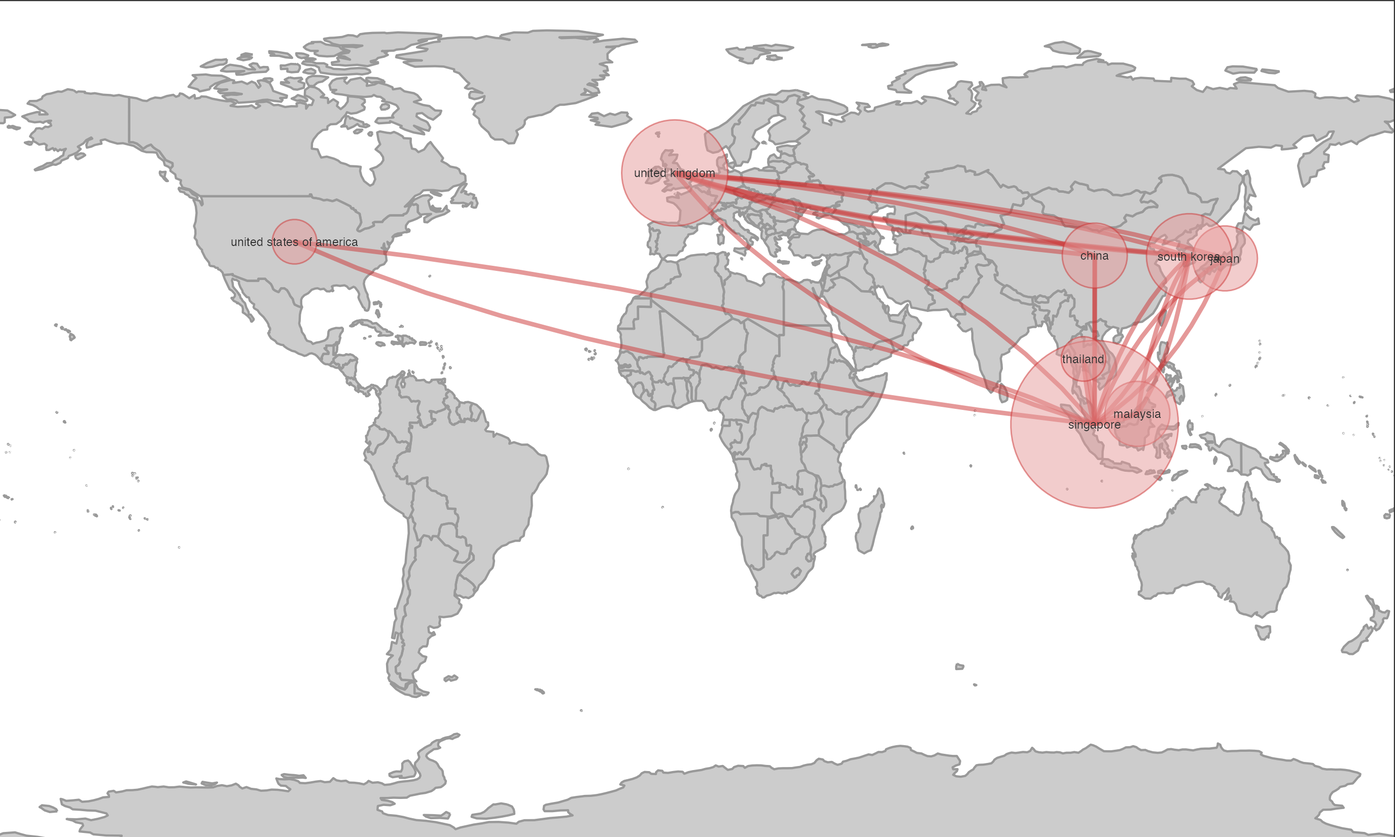
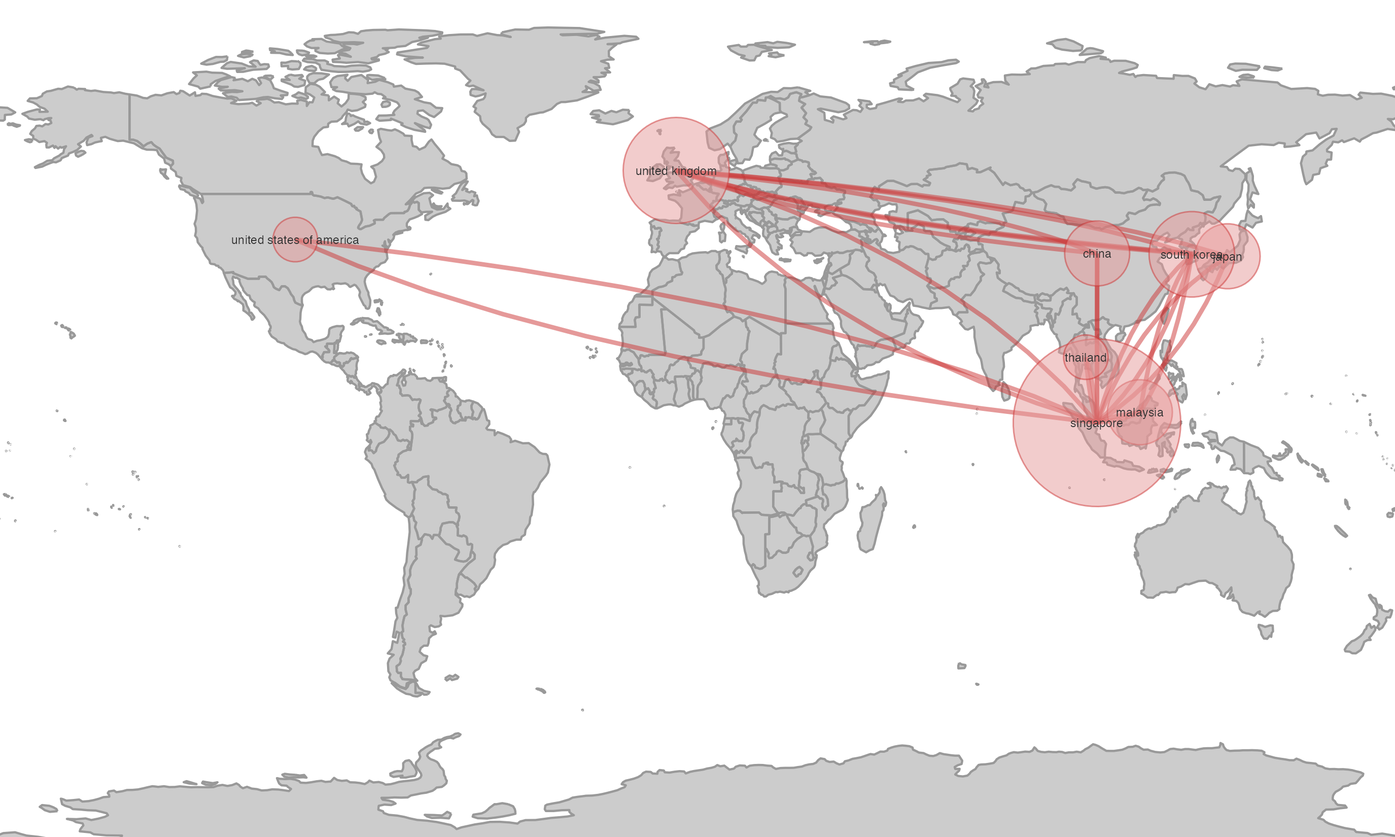
Built site for gh-pages

diff --git a/publications/index.html b/publications/index.html
@@ -7,7 +7,7 @@
 <meta name="viewport" content="width=device-width, initial-scale=1.0, user-scalable=yes">
 
 
-<title></title>
+<title>bhanlam -</title>
 <style>
 code{white-space: pre-wrap;}
 span.smallcaps{font-variant: small-caps;}
@@ -43,6 +43,8 @@ ul.task-list li input[type="checkbox"] {
 <link href="../site_libs/bootstrap/bootstrap-dark.min.css" rel="prefetch" class="quarto-color-scheme quarto-color-alternate" id="quarto-bootstrap" data-mode="dark">
 <link href="../site_libs/quarto-contrib/fontawesome6-0.1.0/all.css" rel="stylesheet">
 <link href="../site_libs/quarto-contrib/fontawesome6-0.1.0/latex-fontsize.css" rel="stylesheet">
+<link href="../site_libs/quarto-contrib/academicons-1.9.2/all.css" rel="stylesheet">
+<link href="../site_libs/quarto-contrib/academicons-1.9.2/size.css" rel="stylesheet">
 <script id="quarto-search-options" type="application/json">{
   "location": "navbar",
   "copy-button": false,
@@ -66,7 +68,7 @@ ul.task-list li input[type="checkbox"] {
 
 
 <link rel="stylesheet" href="../styles.css">
-<meta name="twitter:title" content="">
+<meta name="twitter:title" content="bhanlam -">
 <meta name="twitter:creator" content="@bhanlam">
 <meta name="twitter:card" content="summary">
 </head>
@@ -130,10 +132,93 @@ ul.task-list li input[type="checkbox"] {
 
 
 
-<section id="publications" class="level2">
-<h2 class="anchored" data-anchor-id="publications">Publications</h2>
+<section id="full-publication-list" class="level2">
+<h2 class="anchored" data-anchor-id="full-publication-list">Full Publication List</h2>
+<section id="journal-articles" class="level3">
+<h3 class="anchored" data-anchor-id="journal-articles">Journal Articles</h3>
+<p><br>D Shi, B Lam, X Shen, WS Gan, “Multichannel Two-Gradient Direction Filtered Reference Least Mean Square Algorithm for Output-Constrained Multichannel Active Noise Control”, <em>Signal Process</em>, 2023. <br> Find it here: <a href="https://doi.org/10.1016/j.sigpro.2023.108938" style="font-size:1.5em"><i class="ai  ai-doi-square"></i></a><br>
+<br><br> D Shi, WS Gan, B Lam, X Shen, “A Frequency-Domain Output-Constrained Active Noise Control Algorithm Based on An Intuitive Circulant Convolutional Penalty Factor”, <em>IEEE T Acoust Speech</em>, 2023. <br> Find it here: <a href="https://doi.org/10.1109/TASLP.2023.3260702" style="font-size:1.5em"><i class="ai  ai-doi-square"></i></a><br>
+<br><br> K Ooi, ZT Ong, KN Watcharasupat, B Lam, JY Hong, WS Gan, “Araus: A Large-Scale Dataset And Baseline Models of Affective Responses to Augmented Urban Soundscapes”, <em>IEEE T Affect Comput</em>, 2023. <br> Find it here: <a href="https://doi.org/10.1109/TAFFC.2023.3247914" style="font-size:1.5em"><i class="ai  ai-doi-square"></i></a> <a href="https://doi.org/10.48550/arXiv.2207.01078" style="font-size:1.5em"><i class="ai  ai-arxiv-square"></i></a><br>
+<br><br> D Shi, WS Gan, B Lam, Z Luo, X Shen, “Transferable Latent of Cnn-Based Selective Fixed-Filter Active Noise Control”, <em>IEEE T Acoust Speech</em>, 2023. <br> Find it here: <a href="https://doi.org/10.1109/TASLP.2023.3261757" style="font-size:1.5em"><i class="ai  ai-doi-square"></i></a> <a href="https://www.researchgate.net/publication/371225782_Transferable_Latent_of_CNN-based_Selective_Fixed-filter_Active_Noise_Control?_iepl%5BgeneralViewId%5D=ATO4W0Ce18MbhMMhSMoiFzjWzgjxpbTRtwAa&amp;_iepl%5Bcontexts%5D%5B0%5D=searchReact&amp;_iepl%5BviewId%5D=dBqIQIPElARZ3mltHs9c3hHfTi3TSlqfa1Dm&amp;_iepl%5BsearchType%5D=publication&amp;_iepl%5Bdata%5D%5BcountLessEqual20%5D=1&amp;_iepl%5Bdata%5D%5BinteractedWithPosition1%5D=1&amp;_iepl%5Bdata%5D%5BwithoutEnrichment%5D=1&amp;_iepl%5Bposition%5D=1&amp;_iepl%5BrgKey%5D=PB%3A371225782&amp;_iepl%5BtargetEntityId%5D=PB%3A371225782&amp;_iepl%5BinteractionType%5D=publicationTitle" style="font-size:1.5em"><i class="ai  ai-researchgate-square"></i></a><br>
+<br><br> D Shi, B Lam, J Ji, X Shen, CK Lai, WS Gan, “Computation-Efficient Solution for Fully-Connected Active Noise Control Window: Analysis And Implementation of Multichannel Adjoint Least Mean Square Algorithm”, <em>Mech Syst Signal Pr</em>, 2023. <br> Find it here: <a href="https://doi.org/10.1016/j.ymssp.2023.110444" style="font-size:1.5em"><i class="ai  ai-doi-square"></i></a><br>
+<br><br> KN Watcharasupat, S Jaratjarungkiat, B Lam, S Jitwiriyanont, K Ooi, …, “Quantitative Evaluation Approach for Translation of Perceptual Soundscape Attributes: Initial Application to The Thai Language”, <em>Appl Acoust</em>, 2022. <br> Find it here: <a href="https://doi.org/10.1016/j.apacoust.2022.108962" style="font-size:1.5em"><i class="ai  ai-doi-square"></i></a><br>
+<br><br> B Lam, J Chieng, KN Watcharasupat, K Ooi, ZT Ong, JY Hong, WS Gan, “Crossing the Linguistic Causeway: A Binational Approach for Translating Soundscape Attributes to Bahasa Melayu”, <em>Appl Acoust</em>, 2022. <br> Find it here: <a href="https://doi.org/10.1016/j.apacoust.2022.108976" style="font-size:1.5em"><i class="ai  ai-doi-square"></i></a><br>
+<br><br> B Lam, EMP Fan, K Ooi, ZT Ong, JY Hong, WS Gan, SY Ang, “Assessing the Perceived Indoor Acoustic Environment Quality Across Building Occupants in A Tertiary-Care Public Hospital in Singapore”, <em>Build Environ</em>, 2022. <br> Find it here: <a href="https://doi.org/10.1016/j.buildenv.2022.109403" style="font-size:1.5em"><i class="ai  ai-doi-square"></i></a><br>
+<br><br> JY Hong, B Lam, ZT Ong, K Ooi, WS Gan, S Lee, “A Multidimensional Assessment of Construction Machinery Noises Based on Perceptual Attributes And Psychoacoustic Parameters”, <em>Automat Constr</em>, 2022. <br> Find it here: <a href="https://doi.org/10.1016/j.autcon.2022.104295" style="font-size:1.5em"><i class="ai  ai-doi-square"></i></a><br>
+<br><br> KN Watcharasupat, K Ooi, B Lam, T Wong, ZT Ong, WS Gan, “Autonomous In-Situ Soundscape Augmentation Via Joint Selection of Masker And Gain”, <em>IEEE Signal Proc Let</em>, 2022. <br> Find it here: <a href="https://doi.org/10.1109/LSP.2022.3194419" style="font-size:1.5em"><i class="ai  ai-doi-square"></i></a><br>
+<br><br> D Shi, B Lam, K Ooi, X Shen, WS Gan, “Selective Fixed-Filter Active Noise Control Based on Convolutional Neural Network”, <em>Signal Process</em>, 2022. <br> Find it here: <a href="https://doi.org/10.1016/j.sigpro.2021.108317" style="font-size:1.5em"><i class="ai  ai-doi-square"></i></a><br>
+<br><br> K Ooi, B Lam, JY Hong, KN Watcharasupat, ZT Ong, WS Gan, “Singapore Soundscape Site Selection Survey (S5): Identification of Characteristic Soundscapes of Singapore Via Weighted K-Means Clustering”, <em>Sustainability-Basel</em>, 2022. <br> Find it here: <a href="https://doi.org/10.3390/su14127485" style="font-size:1.5em"><i class="ai  ai-doi-square"></i></a><br>
+<br><br> D Shi, WS Gan, B Lam, X Shen, “Comb-Partitioned Frequency-Domain Constraint Adaptive Algorithm for Active Noise Control”, <em>Signal Process</em>, 2021. <br> Find it here: <a href="https://doi.org/10.1016/j.sigpro.2021.108222" style="font-size:1.5em"><i class="ai  ai-doi-square"></i></a><br>
+<br><br> B Lam, WS Gan, DY Shi, M Nishimura, S Elliott, “Ten Questions Concerning Active Noise Control in The Built Environment”, <em>Build Environ</em>, 2021. <br> Find it here: <a href="https://doi.org/10.1016/j.buildenv.2021.107928" style="font-size:1.5em"><i class="ai  ai-doi-square"></i></a><br>
+<br><br> D Shi, B Lam, WS Gan, S Wen, “Block Coordinate Descent Based Algorithm for Computational Complexity Reduction in Multichannel Active Noise Control System”, <em>Mech Syst Signal Pr</em>, 2021. <br> Find it here: <a href="https://doi.org/10.1016/j.ymssp.2020.107346" style="font-size:1.5em"><i class="ai  ai-doi-square"></i></a><br>
+<br><br> K Ooi, Y Xie, B Lam, WS Gan, “Automation of Binaural Headphone Audio Calibration on An Artificial Head”, <em>Methodsx</em>, 2021. <br> Find it here: <a href="https://doi.org/10.1016/j.mex.2021.101288" style="font-size:1.5em"><i class="ai  ai-doi-square"></i></a><br>
+<br><br> D Shi, WS Gan, B Lam, S Wen, X Shen, “Optimal Output-Constrained Active Noise Control Based on Inverse Adaptive Modeling Leak Factor Estimate”, <em>IEEE T Acoust Speech</em>, 2021. <br> Find it here: <a href="https://doi.org/10.1109/TASLP.2021.3065730" style="font-size:1.5em"><i class="ai  ai-doi-square"></i></a><br>
+<br><br> D Shi, WS Gan, B Lam, K Ooi, “Fast Adaptive Active Noise Control Based on Modified Model-Agnostic Meta-Learning Algorithm”, <em>IEEE Signal Proc Let</em>, 2021. <br> Find it here: <a href="https://doi.org/10.1109/LSP.2021.3064756" style="font-size:1.5em"><i class="ai  ai-doi-square"></i></a><br>
+<br><br> JY Hong, B Lam, ZT Ong, K Ooi, WS Gan, J Kang, S Yeong, I Lee, ST Tan, “A Mixed-Reality Approach to Soundscape Assessment of Outdoor Urban Environments Augmented with Natural Sounds”, <em>Build Environ</em>, 2021. <br> Find it here: <a href="https://doi.org/10.1016/j.buildenv.2021.107688" style="font-size:1.5em"><i class="ai  ai-doi-square"></i></a> <a href="https://hdl.handle.net/10356/146637" style="font-size:1.5em"><i class="fa-solid fa-globe" aria-label="globe"></i></a><br>
+<br><br> D Shi, WS Gan, B Lam, X Shen, “Optimal Penalty Factor for The Mov-Fxlms Algorithm in Active Noise Control System”, <em>IEEE Signal Proc Let</em>, 2021. <br> Find it here: <a href="https://doi.org/10.1109/LSP.2021.3126198" style="font-size:1.5em"><i class="ai  ai-doi-square"></i></a><br>
+<br><br> JY Hong, B Lam, ZT Ong, K Ooi, WS Gan, J Kang, S Yeong, I Lee, ST Tan, “Effects of Contexts in Urban Residential Areas on The Pleasantness And Appropriateness of Natural Sounds”, <em>Sustain Cities Soc</em>, 2020. <br> Find it here: <a href="https://doi.org/10.1016/j.scs.2020.102475" style="font-size:1.5em"><i class="ai  ai-doi-square"></i></a><br>
+<br><br> B Lam, D Shi, V Belyi, S Wen, WS Gan, K Li, I Lee, “Active Control of Low-Frequency Noise Through a Single Top-Hung Window in A Full-Sized Room”, <em>Appl Sci-Basel</em>, 2020. <br> Find it here: <a href="https://doi.org/10.3390/app10196817" style="font-size:1.5em"><i class="ai  ai-doi-square"></i></a><br>
+<br><br> B Lam, D Shi, WS Gan, SJ Elliott, M Nishimura, “Active Control of Broadband Sound Through the Open Aperture of A Full-Sized Domestic Window”, <em>Sci Rep-UK</em>, 2020. <br> Find it here: <a href="https://doi.org/10.1038/s41598-020-66563-z" style="font-size:1.5em"><i class="ai  ai-doi-square"></i></a><br>
+<br><br> JY Hong, ZT Ong, B Lam, K Ooi, WS Gan, J Kang, J Feng, ST Tan, “Effects of Adding Natural Sounds to Urban Noises on The Perceived Loudness of Noise And Soundscape Quality”, <em>Sci Total Environ</em>, 2020. <br> Find it here: <a href="https://doi.org/10.1016/j.scitotenv.2019.134571" style="font-size:1.5em"><i class="ai  ai-doi-square"></i></a><br>
+<br><br> JY Hong, B Lam, ZT Ong, K Ooi, WS Gan, J Kang, S Yeong, I Lee, ST Tan, “The Effects of Spatial Separations Between Water Sound And Traffic Noise Sources on Soundscape Assessment”, <em>Build Environ</em>, 2020. <br> Find it here: <a href="https://doi.org/10.1016/j.buildenv.2019.106423" style="font-size:1.5em"><i class="ai  ai-doi-square"></i></a><br>
+<br><br> D Shi, WS Gan, B Lam, S Wen, “Feedforward Selective Fixed-Filter Active Noise Control: Algorithm And Implementation”, <em>IEEE T Acoust Speech</em>, 2020. <br> Find it here: <a href="https://doi.org/10.1109/TASLP.2020.2989582" style="font-size:1.5em"><i class="ai  ai-doi-square"></i></a><br>
+<br><br> D Shi, WS Gan, B Lam, R Hasegawa, Y Kajikawa, “Feedforward Multichannel Virtual-Sensing Active Control of Noise Through an Aperture: Analysis on Causality And Sensor-Actuator Constraints”, <em>J Acoust Soc Am</em>, 2020. <br> Find it here: <a href="https://doi.org/10.1121/10.0000515" style="font-size:1.5em"><i class="ai  ai-doi-square"></i></a><br>
+<br><br> D Shi, B Lam, WS Gan, S Wen, “Optimal Leak Factor Selection for The Output-Constrained Leaky Filtered-Input Least Mean Square Algorithm”, <em>IEEE Signal Proc Let</em>, 2019. <br> Find it here: <a href="https://doi.org/10.1109/LSP.2019.2903908" style="font-size:1.5em"><i class="ai  ai-doi-square"></i></a><br>
+<br><br> J He, B Lam, D Shi, WS Gan, “Exploiting the Underdetermined System in Multichannel Active Noise Control for Open Windows”, <em>Appl Sci-Basel</em>, 2019. <br> Find it here: <a href="https://doi.org/10.3390/app9030390" style="font-size:1.5em"><i class="ai  ai-doi-square"></i></a><br>
+<br><br> JY Hong, B Lam, ZT Ong, K Ooi, WS Gan, J Kang, J Feng, ST Tan, “Quality Assessment of Acoustic Environment Reproduction Methods for Cinematic Virtual Reality in Soundscape Applications”, <em>Build Environ</em>, 2019. <br> Find it here: <a href="https://doi.org/10.1016/j.buildenv.2018.12.004" style="font-size:1.5em"><i class="ai  ai-doi-square"></i></a><br>
+<br><br> DY Shi, WS Gan, B Lam, C Shi, “Two-Gradient Direction Fxlms: An Adaptive Active Noise Control Algorithm with Output Constraint”, <em>Mech Syst Signal Pr</em>, 2019. <br> Find it here: <a href="https://doi.org/10.1016/j.ymssp.2018.06.062" style="font-size:1.5em"><i class="ai  ai-doi-square"></i></a><br>
+<br><br> D Shi, WS Gan, J He, B Lam, “Practical Implementation of Multichannel Filtered-X Least Mean Square Algorithm Based on The Multiple-Parallel-Branch with Folding Architecture for Large-Scale Active Noise Control”, <em>IEEE T VLSI Syst</em>, 2019. <br> Find it here: <a href="https://doi.org/10.1109/TVLSI.2019.2956524" style="font-size:1.5em"><i class="ai  ai-doi-square"></i></a><br>
+<br><br> B Lam, C Shi, D Shi, WS Gan, “Active Control of Sound Through Full-Sized Open Windows”, <em>Build Environ</em>, 2018. <br> Find it here: <a href="https://doi.org/10.1016/j.buildenv.2018.05.042" style="font-size:1.5em"><i class="ai  ai-doi-square"></i></a><br>
+<br><br> B Lam, S Elliott, J Cheer, WS Gan, “Physical Limits on The Performance of Active Noise Control Through Open Windows”, <em>Appl Acoust</em>, 2018. <br> Find it here: <a href="https://doi.org/10.1016/j.apacoust.2018.02.024" style="font-size:1.5em"><i class="ai  ai-doi-square"></i></a><br>
+<br><br> SJ Elliott, J Cheer, B Lam, C Shi, WS Gan, “A Wavenumber Approach to Analysing the Active Control of Plane Waves with Arrays of Secondary Sources”, <em>J Sound Vib</em>, 2018. <br> Find it here: <a href="https://doi.org/10.1016/j.jsv.2018.01.028" style="font-size:1.5em"><i class="ai  ai-doi-square"></i></a> <a href="https://www.researchgate.net/publication/322628127_A_wavenumber_approach_to_analysing_the_active_control_of_plane_waves_with_arrays_of_secondary_sources" style="font-size:1.5em"><i class="ai  ai-researchgate-square"></i></a> <a href="https://hdl.handle.net/10356/86078" style="font-size:1.5em"><i class="fa-solid fa-globe" aria-label="globe"></i></a><br>
+<br><br> B Lam, WS Gan, “Active Acoustic Windows: Towards a Quieter Home”, <em>IEEE Potentials</em>, 2016. <br> Find it here: <a href="https://doi.org/10.1109/MPOT.2014.2310776" style="font-size:1.5em"><i class="ai  ai-doi-square"></i></a><br>
+<br><br> ### Conference proceedings <br>CK Lai, B Lam, D Shi, WS Gan, “Real-Time Modelling of Observation Filter in The Remote Microphone Technique for An Active Noise Control Application”, <em>ICASSP 2023 - 2023 IEEE Int Conf Acoust Speech Signal Process</em>, in: Rhodes, Greece, 2023. <br> Find it here: <a href="https://doi.org/10.1109/ICASSP49357.2023.10095752" style="font-size:1.5em"><i class="ai  ai-doi"></i></a> <a href="https://www.researchgate.net/publication/369449718_Real-time_modelling_of_observation_filter_in_the_Remote_Microphone_Technique_for_an_Active_Noise_Control_application" style="font-size:1.5em"><i class="ai  ai-researchgate"></i></a> <a href="https://doi.org/10.48550/arXiv.2303.12517" style="font-size:1.5em"><i class="ai  ai-arxiv"></i></a><br>
+<br><br>K Ooi, KN Watcharasupat, B Lam, ZT Ong, WS Gan, “Autonomous Soundscape Augmentation with Multimodal Fusion of Visual And Participant-Linked Inputs”, <em>ICASSP 2023 - 2023 IEEE Int Conf Acoust Speech Signal Process</em>, in: Rhodes, Greece, 2023. <br> Find it here: <a href="https://doi.org/10.1109/ICASSP49357.2023.10094866" style="font-size:1.5em"><i class="ai  ai-doi"></i></a> <a href="https://www.researchgate.net/publication/369266154_Autonomous_Soundscape_Augmentation_with_Multimodal_Fusion_of_Visual_and_Participant-linked_Inputs" style="font-size:1.5em"><i class="ai  ai-researchgate"></i></a> <a href="https://doi.org/10.48550/arXiv.2303.08342" style="font-size:1.5em"><i class="ai  ai-arxiv"></i></a><br>
+<br><br>K Ooi, KN Watcharasupat, B Lam, ZT Ong, WS Gan, “Probably Pleasant? a Neural-Probabilistic Approach to Automatic Masker Selection for Urban Soundscape Augmentation”, <em>ICASSP 2022 - 2022 IEEE Int Conf Acoust Speech Signal Process</em>, in: Singapore, 2022. <br> Find it here: <a href="https://doi.org/10.1109/ICASSP43922.2022.9746897" style="font-size:1.5em"><i class="ai  ai-doi"></i></a><br>
+<br><br>T Wong, KN Watcharasupat, B Lam, K Ooi, ZT Ong, FA Karnapi, WS Gan, “Deployment of An Iot System for Adaptive In-Situ Soundscape Augmentation”, <em>INTERNOISE NOISE-CON Congr Conf Proceedings, InterNoise22</em>, in: Glasgow, UK, 2022. <br> Find it here: <a href="https://doi.org/10.3397/IN_2022_0290" style="font-size:1.5em"><i class="ai  ai-doi"></i></a> <a href="https://doi.org/10.48550/arXiv.2204.13890" style="font-size:1.5em"><i class="ai  ai-arxiv"></i></a><br>
+<br><br>B Lam, K Ooi, ZT Ong, KN Watcharasupat, T Wong, WS Gan, “Assessment of A Cost-Effective Headphone Calibration Procedure for Soundscape Evaluations”, <em>Proc 24th Int Congr Acoust</em>, in: _Gyeongju, South Korea, 2022. <br> Find it here: <a href="https://www.researchgate.net/publication/362277034_Assessment_of_a_cost-effective_headphone_calibration_procedure_for_soundscape_evaluations" style="font-size:1.5em"><i class="ai  ai-researchgate"></i></a> <a href="https://doi.org/10.48550/arXiv.2207.12899" style="font-size:1.5em"><i class="ai  ai-arxiv"></i></a><br>
+<br><br>ZT Ong, B Lam, K Ooi, KN Watcharasupat, T Wong, WS Gan, “Do Uhear? Validation of Uhear App for Preliminary Screening of Hearing Ability in Soundscape Studies”, <em>Proc 24th Int Congr Acoust</em>, in: _Gyeongju, South Korea, 2022. <br> Find it here: <a href="https://www.researchgate.net/publication/362121556_Do_uHear_Validation_of_uHear_App_for_Preliminary_Screening_of_Hearing_Ability_in_Soundscape_Studies" style="font-size:1.5em"><i class="ai  ai-researchgate"></i></a> <a href="https://doi.org/10.48550/arXiv.2207.09221" style="font-size:1.5em"><i class="ai  ai-arxiv"></i></a><br>
+<br><br>B Lam, K Ooi, KN Watcharasupat, ZT Ong, YT Lau, T Wong, WS Gan, “Preliminary Assessment of A Cost-Effective Headphone Calibration Procedure for Soundscape Evaluations”, <em>Proc 28th Int Congr Sound Vib, ICSV28</em>, in: Singapore, 2022. <br> Find it here: <a href="https://www.researchgate.net/publication/369231680_Preliminary_assessment_of_a_cost-effective_headphone_calibration_procedure_for_soundscape_evaluations" style="font-size:1.5em"><i class="ai  ai-researchgate"></i></a> <a href="https://doi.org/10.48550/arXiv.2205.04728" style="font-size:1.5em"><i class="ai  ai-arxiv"></i></a><br>
+<br><br>K Ooi, KN Watcharasupat, B Lam, ZT Ong, WS Gan, “A Benchmark Comparison of Perceptual Models for Soundscapes on A Large-Scale Augmented Soundscape Dataset”, <em>Proc 24th Int Congr Acoust</em>, in: _Gyeongju, South Korea, 2022. <br> Find it here: <a href="https://hdl.handle.net/10356/164983" style="font-size:1.5em"><i class="fa-solid fa-globe" aria-label="globe"></i></a><br>
+<br><br>FA Karnapi, B Lam, T Wong, K Ooi, ZT Ong, WS Gan, J Hong, S Yeong, “Development of A Feedback Interface for In-Situ Soundscape Evaluation”, <em>INTERNOISE NOISE-CON Congr Conf Proceedings, InterNoise21</em>, in: Washington, DC, USA, 2021. <br> Find it here: <a href="https://doi.org/10.3397/IN-2021-2084" style="font-size:1.5em"><i class="ai  ai-doi"></i></a> <a href="https://www.researchgate.net/publication/353581329_Development_of_a_feedback_interface_for_in-situ_soundscape_evaluation" style="font-size:1.5em"><i class="ai  ai-researchgate"></i></a><br>
+<br><br>T Wong, B Lam, FA Karnapi, K Ooi, WS Gan, “Assessment of Inter-Ic Sound Microelectromechanical Systems Microphones for Soundscape Reporting”, <em>INTERNOISE NOISE-CON Congr Conf Proceedings, InterNoise21</em>, in: Washington, DC, USA, 2021. <br> Find it here: <a href="https://doi.org/10.3397/IN-2021-2086" style="font-size:1.5em"><i class="ai  ai-doi"></i></a> <a href="https://www.researchgate.net/publication/353581429_Assessment_of_inter-IC_sound_microelectromechanical_systems_microphones_for_soundscape_reporting" style="font-size:1.5em"><i class="ai  ai-researchgate"></i></a><br>
+<br><br>JY Hong, B Lam, ZT Ong, K Ooi, WS Gan, SC Lee, “Perceptual Assessment of Operation Noises of Equipment on Construction Sites”, <em>Euronoise 2021</em>, in: Madeira, Portugal, 2021. <br> Find it here: <a href="https://www.researchgate.net/publication/359310096_Perceptual_assessment_of_operation_noises_of_equipment_on_construction_sites" style="font-size:1.5em"><i class="ai  ai-researchgate"></i></a><br>
+<br><br>D Shi, B Lam, S Wen, WS Gan, “Multichannel Active Noise Control with Spatial Derivative Constraints to Enlarge the Quiet Zone”, <em>ICASSP 2020 - 2020 IEEE Int Conf. Acoust Speech Signal Process</em>, in: Barcelona, Spain, 2020. <br> Find it here: <a href="https://doi.org/10.1109/ICASSP40776.2020.9053978" style="font-size:1.5em"><i class="ai  ai-doi"></i></a><br>
+<br><br>F Aletta, T Oberman, Ö Axelsson, H Xie, Y Zhang, SK Lau, SK Tang, …, “Soundscape Assessment: Towards a Validated Translation of Perceptual Attributes in Different Languages”, <em>INTERNOISE NOISE-CON Congr Conf Proceedings, InterNoise20</em>, in: _Seoul, South Korea, 2020. <br> Find it here: <a href="_https://www.ingentaconnect.com/content/ince/incecp/2020/00000261/00000003/art00018" style="font-size:1.5em"><i class="fa-solid fa-globe" aria-label="globe"></i></a><br>
+<br><br>D Shi, WS Gan, B Lam, S Wen, X Shen, “Active Noise Control Based on The Momentum Multichannel Normalized Filtered-X Least Mean Square Algorithm”, <em>INTERNOISE NOISE-CON Congr Conf Proceedings, InterNoise20</em>, in: _Seoul, South Korea, 2020. <br> Find it here: <a href="_https://www.ingentaconnect.com/content/ince/incecp/2020/00000261/00000006/art00085" style="font-size:1.5em"><i class="fa-solid fa-globe" aria-label="globe"></i></a><br>
+<br><br>K Ooi, J Hong, B Lam, ZT Ong, WS Gan, “A Deep Learning Approach for Modelling Perceptual Attributes of Soundscapes”, <em>INTERNOISE NOISE-CON Congr Conf Proceedings, InterNoise20</em>, in: _Seoul, South Korea, 2020. <br> Find it here: <a href="https://www.researchgate.net/publication/344609366_A_deep_learning_approach_for_modelling_perceptual_attributes_of_soundscapes" style="font-size:1.5em"><i class="ai  ai-researchgate"></i></a> <a href="_https://www.ingentaconnect.com/contentone/ince/incecp/2020/00000261/00000003/art00064" style="font-size:1.5em"><i class="fa-solid fa-globe" aria-label="globe"></i></a><br>
+<br><br>B Lam, YX Tan, J Heng, JY Hong, ZT Ong, WS Gan, “Virtual, Augmented And Mixed Reality Tools in Soundscape Evaluation And Design”, <em>INTERNOISE NOISE-CON Congr Conf Proceedings, InterNoise20</em>, in: _Seoul, South Korea, 2020. <br> Find it here: <a href="https://www.researchgate.net/publication/343150785_Virtual_augmented_and_mixed_reality_tools_in_soundscape_evaluation_and_design" style="font-size:1.5em"><i class="ai  ai-researchgate"></i></a> <a href="_https://www.ingentaconnect.com/contentone/ince/incecp/2020/00000261/00000003/art00027" style="font-size:1.5em"><i class="fa-solid fa-globe" aria-label="globe"></i></a><br>
+<br><br>D Shi, WS Gan, B Lam, S Wen, X Shen, “Multichannel Active Noise Control Based on Momentum Multichannel Normalized Filtered-X Least Mean Square Algorithm”, <em>INTERNOISE NOISE-CON Congr Conf Proceedings, InterNoise20</em>, in: _Seoul, South Korea, 2020. <br> Find it here: <a href="https://www.researchgate.net/publication/346035786_Multichannel_Active_Noise_Control_based_on_Momentum_Multichannel_Normalized_Filtered-x_Least_Mean_Square_Algorithm" style="font-size:1.5em"><i class="ai  ai-researchgate"></i></a><br>
+<br><br>D Shi, B Lam, W Gan, “Analysis of Multichannel Virtual Sensing Active Noise Control to Overcome Spatial Correlation And Causality Constraints”, <em>ICASSP 2019 - 2019 IEEE Int Conf Acoust Speech Signal Process</em>, in: Brighton, UK, 2019. <br> Find it here: <a href="https://doi.org/10.1109/ICASSP.2019.8682344" style="font-size:1.5em"><i class="ai  ai-doi"></i></a><br>
+<br><br>D Shi, WS Gan, B Lam, S Wen, “Practical Consideration And Implementation for Avoiding Saturation of Large Amplitude Active Noise Control”, <em>Proc. 23rd Int Congr Acoust</em>, in: Aachen, Germany, 2019. <br> Find it here: <a href="https://doi.org/10.18154/RWTH-CONV-239900" style="font-size:1.5em"><i class="ai  ai-doi"></i></a><br>
+<br><br>B Lam, J Hong, ZT Ong, K Ooi, WS Gan, S Jeong, I Lee, TT Tan, “Evaluation of Preferred Levels of Natural Sounds In-Situ Environment Through an Augmented Reality Device”, <em>Proc 23rd Int Congr Acoust</em>, in: Aachen, Germany, 2019. <br> Find it here: <a href="https://doi.org/10.18154/RWTH-CONV-239578" style="font-size:1.5em"><i class="ai  ai-doi"></i></a><br>
+<br><br>B Lam, JY Hong, ZT Ong, WS Gan, J Kang, J Feng, ST Tan, “Influence of Parametrically-Decoded First-Order Ambisonics Reproduction in Cinematic Virtual-Reality-Based Soundscape Evaluation”, <em>INTERNOISE NOISE-CON Congr Conf Proceedings, InterNoise19</em>, in: Madrid, Spain, 2019. <br> Find it here: <a href="https://www.researchgate.net/publication/333984865_Influence_of_Parametrically-decoded_First-order_Ambisonics_Reproduction_in_Cinematic_Virtual-Reality-based_Soundscape_Evaluation" style="font-size:1.5em"><i class="ai  ai-researchgate"></i></a> <a href="_https://www.ingentaconnect.com/content/ince/incecp/2019/00000259/00000002/art00068" style="font-size:1.5em"><i class="fa-solid fa-globe" aria-label="globe"></i></a><br>
+<br><br>JY Hong, B Lam, ZT Ong, WS Gan, J Fen, ST Tan, “Effect of Spatial Separation Between Traffic Noise And Water Sound on Soundscape Assessment”, <em>INTERNOISE NOISE-CON Congr Conf Proceedings, InterNoise20</em>, in: _Seoul, South Korea, 2019. <br> Find it here: <a href="https://www.researchgate.net/publication/334963168_Effect_of_spatial_separation_between_traffic_noise_and_water_sound_on_soundscape_assessment" style="font-size:1.5em"><i class="ai  ai-researchgate"></i></a> <a href="_https://www.ingentaconnect.com/content/ince/incecp/2019/00000259/00000004/art00028" style="font-size:1.5em"><i class="fa-solid fa-globe" aria-label="globe"></i></a><br>
+<br><br>DY Shi, B Lam, WS Gan, “A Novel Selective Active Noise Control Algorithm to Overcome Practical Implementation Issue”, <em>ICASSP 2018 - 2018 IEEE Int Conf Acoust Speech Signal Process</em>, in: Calgary, Canada, 2018. <br> Find it here: <a href="https://doi.org/10.1109/ICASSP.2018.8461458" style="font-size:1.5em"><i class="ai  ai-doi"></i></a> <a href="https://www.researchgate.net/publication/327815031_A_Novel_Selective_Active_Noise_Control_Algorithm_to_Overcome_Practical_Implementation_Issue" style="font-size:1.5em"><i class="ai  ai-researchgate"></i></a><br>
+<br><br>B Lam, JY Hong, ZT Ong, WS Gan, “Reliability of Wrist-Worn Sensors for Measuring Physiological Responses in Soundscape Assessments”, <em>INTERNOISE NOISE-CON Congr Conf Proceedings, InterNoise18</em>, in: Chicago, IL, USA, 2018. <br> Find it here: <a href="https://www.researchgate.net/publication/329673107_Reliability_of_wrist-worn_sensors_for_measuring_physiological_responses_in_soundscape_assessments" style="font-size:1.5em"><i class="ai  ai-researchgate"></i></a> <a href="_https://www.ingentaconnect.com/content/ince/incecp/2018/00000258/00000003/art00065" style="font-size:1.5em"><i class="fa-solid fa-globe" aria-label="globe"></i></a><br>
+<br><br>B Lam, W Gan, D Shi, S Elliott, “Hybrid Source Arrangement for Active Control of Noise Through Apertures At Oblique Incidences: A Preliminary Investigation”, <em>Proc 25th Int Congr Sound Vib, ICSV25</em>, in: Hiroshima, Japan, 2018. <br> Find it here: <a href="https://www.researchgate.net/publication/329610847_Hybrid_source_arrangement_for_active_control_of_noise_through_apertures_at_oblique_incidences_a_preliminary_investigation" style="font-size:1.5em"><i class="ai  ai-researchgate"></i></a><br>
+<br><br>C Shi, H Li, D Shi, B Lam, WS Gan, “Understanding Multiple-Input Multiple-Output Active Noise Control From a Perspective of Sampling And Reconstruction”, <em>2017 Asia-Pacific Signal Inf Process Assoc Annu Summit Conf (APSIPA ASC)</em>, in: _Kuala Lumpur, Malaysia, 2017. <br> Find it here: <a href="https://doi.org/10.1109/APSIPA.2017.8282013" style="font-size:1.5em"><i class="ai  ai-doi"></i></a> <a href="https://www.researchgate.net/publication/323195520_Understanding_multiple-input_multiple-output_active_noise_control_from_a_perspective_of_sampling_and_reconstruction" style="font-size:1.5em"><i class="ai  ai-researchgate"></i></a><br>
+<br><br>B Lam, C Shi, WS Gan, “Active Noise Control Systems for Open Windows: Current Updates And Future Perspectives”, <em>Proc 24th Int Congr Sound Vib</em>, in: London, UK, 2017. <br> Find it here: <a href="https://www.researchgate.net/publication/318851167_Active_noise_control_systems_for_open_windows_Current_updates_and_future_perspectives" style="font-size:1.5em"><i class="ai  ai-researchgate"></i></a><br>
+<br><br>JY Hong, B Lam, ZT Ong, R Gupta, WS Gan, SH Chong, J Feng, “Suitability of Natural Sounds to Enhance Soundscape Quality in Urban Residential Areas”, <em>Proc 24th Int Congr Sound Vib</em>, in: London, UK, 2017. <br> Find it here: <a href="https://www.researchgate.net/publication/318850984_SUITABILITY_OF_NATURAL_SOUNDS_TO_ENHANCE_SOUNDSCAPE_QUALITY_IN_URBAN_RESIDENTIAL_AREAS" style="font-size:1.5em"><i class="ai  ai-researchgate"></i></a><br>
+<br><br>S Elliott, J Cheer, B Lam, C Shi, WS Gan, “Controlling Incident Sound Fields with Source Arrays in Free Space And Through Apertures”, <em>Proc 24th Int Congr Sound Vib</em>, in: London, UK, 2017. <br> Find it here: <a href="https://www.researchgate.net/publication/318851172_Controlling_incident_sound_fields_with_source_arrays_in_free_space_and_through_apertures" style="font-size:1.5em"><i class="fa-solid fa-globe" aria-label="globe"></i></a><br>
+<br><br>JY Hong, B Lam, ZT Ong, R Gupta, WS Gan, SH Chong, J Feng, “Appropriate Levels of Natural Sounds to Enhance Soundscapes in Urban Areas”, <em>INTERNOISE NOISE-CON Congr Conf Proceedings, InterNoise17</em>, in: HongKong SAR, China, 2017. <br> Find it here: <a href="_https://www.ingentaconnect.com/content/ince/incecp/2017/00000255/00000003/art00091" style="font-size:1.5em"><i class="fa-solid fa-globe" aria-label="globe"></i></a><br>
+<br><br>R Gupta, B Lam, J Hong, ZT Ong, WS Gan, SH Chong, J Feng, “3d Audio Ar/Vr Capture And Reproduction Setup for Auralization of Soundscapes”, <em>Proc 24th Int Congr Sound Vib</em>, in: London, UK, 2017. <br> Find it here: <a href="https://www.researchgate.net/publication/318851185_3D_AUDIO_ARVR_CAPTURE_AND_REPRODUCTION_SETUP_FOR_AURALIZATION_OF_SOUNDSCAPES" style="font-size:1.5em"><i class="fa-solid fa-globe" aria-label="globe"></i></a><br>
+<br><br>ZT Ong, JY Hong, B Lam, R Gupta, WS Gan, SH Chong, J Feng, K Ooi, “Effect of Masker Orientation on Masking Efficacy in Soundscape Applications”, <em>INTERNOISE NOISE-CON Congr Conf Proceedings, InterNoise17</em>, in: HongKong SAR, China, 2017. <br> Find it here: <a href="_https://www.ingentaconnect.com/content/ince/incecp/2017/00000255/00000003/art00108" style="font-size:1.5em"><i class="fa-solid fa-globe" aria-label="globe"></i></a><br>
+<br><br>K Ooi, JY Hong, B Lam, ZT Ong, WS Gan, “Validation of Binaural Recordings with Head Tracking for Use in Soundscape Evaluation”, <em>INTERNOISE NOISE-CON Congr Conf Proceedings, InterNoise17</em>, in: HongKong SAR, China, 2017. <br> Find it here: <a href="https://www.researchgate.net/publication/319435678_Validation_of_binaural_recordings_with_head_tracking_for_use_in_soundscape_evaluation" style="font-size:1.5em"><i class="ai  ai-researchgate"></i></a> <a href="https://www.ingentaconnect.com/contentone/ince/incecp/2017/00000255/00000003/art00076" style="font-size:1.5em"><i class="fa-solid fa-globe" aria-label="globe"></i></a><br>
+<br><br>B Lam, WS Gan, “Effects of Acoustic Scattering on The Active Control of Noise Through Apertures”, <em>COMSOL Conf </em>, in: Singapore, 2017. <br> Find it here: <a href="https://www.comsol.com/paper/effects-of-acoustic-scattering-on-the-active-control-of-noise-through-apertures-60363" style="font-size:1.5em"><i class="fa-solid fa-globe" aria-label="globe"></i></a><br>
+<br><br>R Ranjan, T Murao, B Lam, WS Gan, “Selective Active Noise Control System for Open Windows Using Sound Classification”, <em>INTERNOISE NOISE-CON Congr Conf Proceedings, InterNoise16</em>, in: _Hamburg, Germany, 2016. <br> Find it here: <a href="_https://www.ingentaconnect.com/content/ince/incecp/2016/00000253/00000006/art00007" style="font-size:1.5em"><i class="fa-solid fa-globe" aria-label="globe"></i></a><br>
+<br><br>T Murao, J He, B Lam, R Ranjan, C Shi, WS Gan, “Feasibility Study on Decentralized Control System for Active Acoustic Shielding”, <em>INTERNOISE NOISE-CON Congr Conf Proceedings, InterNoise16</em>, in: _Hamburg, Germany, 2016. <br> Find it here: <a href="https://www.researchgate.net/publication/307607378_Feasibility_study_on_decentralized_control_system_for_active_acoustic_shielding" style="font-size:1.5em"><i class="ai  ai-researchgate"></i></a> <a href="_https://www.ingentaconnect.com/content/ince/incecp/2016/00000253/00000007/art00026" style="font-size:1.5em"><i class="fa-solid fa-globe" aria-label="globe"></i></a><br>
+<br><br>C Shi, T Murao, D Shi, B Lam, WS Gan, “Open Loop Active Control of Noise Through Open Windows”, <em>J Acoust Soc Am</em>, in: Honolulu, HI, USA, 2016. <br> Find it here: <a href="https://doi.org/10.1121/2.0000461" style="font-size:1.5em"><i class="ai  ai-doi"></i></a><br>
+<br><br>B Lam, M Tatsuya, C Shi, WS Gan, S Elliott, “Feasibility of The Full-Rank Fixed-Filter Approach in The Active Control of Noise Through Open Windows”, <em>INTERNOISE NOISE-CON Congr Conf Proceedings, InterNoise16</em>, in: _Hamburg, Germany, 2016. <br> Find it here: <a href="_https://www.ingentaconnect.com/content/ince/incecp/2016/00000253/00000005/art00080" style="font-size:1.5em"><i class="fa-solid fa-globe" aria-label="globe"></i></a><br>
+<br><br>J He, T Murao, R Ranjan, WS Gan, “Symmetric Design of Multiple-Channel Active Noise Control Systems for Open Windows”, <em>INTERNOISE NOISE-CON Congr Conf Proceedings, InterNoise16</em>, in: _Hamburg, Germany, 2016. <br> Find it here: <a href="https://www.researchgate.net/publication/306379461_Symmetric_Design_of_Multiple-Channel_Active_Noise_Control_Systems_for_Open_Windows" style="font-size:1.5em"><i class="ai  ai-researchgate"></i></a> <a href="_https://www.ingentaconnect.com/content/ince/incecp/2016/00000253/00000008/art00069" style="font-size:1.5em"><i class="fa-solid fa-globe" aria-label="globe"></i></a><br>
+<br><br>B Lam, S Elliott, J Cheer, W Gan, “The Physical Limits of Active Noise Control of Open Windows”, <em>Proc 12th West Pacific Acoust Conf</em>, in: Singapore, 2015. <br> Find it here: <a href="https://www.researchgate.net/publication/286448252_The_Physical_Limits_of_Active_Noise_Control_of_Open_Windows" style="font-size:1.5em"><i class="ai  ai-researchgate"></i></a><br>
+<br><br>S Fasciani, J He, B Lam, T Murao, WS Gan, “Comparative Study of Cone-Shaped Versus Flat-Panel Speakers for Active Noise Control of Multi-Tonal Signals in Open Windows”, <em>INTERNOISE NOISE-CON Congr Conf Proceedings, InterNoise15</em>, in: San Francisco, CA, USA, 2015. <br> Find it here: <a href="_https://www.ingentaconnect.com/content/ince/incecp/2015/00000250/00000006/art00069" style="font-size:1.5em"><i class="fa-solid fa-globe" aria-label="globe"></i></a><br>
+<br><br>B Lam, SJ Elliott, WS Gan, “Regularisation of The Equivalent Source Method for Robust Numerical Modelling of Acoustic Scattering”, <em>INTERNOISE NOISE-CON Congr Conf Proceedings, InterNoise15</em>, in: San Francisco, CA, USA, 2015. <br> Find it here: <a href="_https://www.ingentaconnect.com/content/ince/incecp/2015/00000250/00000006/art00056" style="font-size:1.5em"><i class="fa-solid fa-globe" aria-label="globe"></i></a><br>
+<br><br>B Lam, WS Gan, C Shi, “Feasibility of A Length-Limited Parametric Source for Active Noise Control Applications”, <em>Proc 21st Int Congr Sound Vib</em>, in: Beijing, China, 2014. <br> Find it here: <a href="https://www.researchgate.net/publication/309045737_Feasibility_of_a_length-limited_parametric_source_for_active_noise_control_applications" style="font-size:1.5em"><i class="ai  ai-researchgate"></i></a><br>
+<br><br></p>
 
 
+</section>
 </section>
 
 </main> <!-- /main -->

diff --git a/cv/index.html b/cv/index.html
@@ -7,7 +7,7 @@
 <meta name="viewport" content="width=device-width, initial-scale=1.0, user-scalable=yes">
 
 
-<title></title>
+<title>bhanlam -</title>
 <style>
 code{white-space: pre-wrap;}
 span.smallcaps{font-variant: small-caps;}
@@ -69,9 +69,11 @@ ul.task-list li input[type="checkbox"] {
 
 
 <link rel="stylesheet" href="../styles.css">
-<meta name="twitter:title" content="">
-<meta name="twitter:image" content="https://bhanlam.github.io/cv/images/coauthormap.png">
+<meta name="twitter:title" content="bhanlam -">
+<meta name="twitter:image" content="https://bhanlam.github.io/images/coauthormap.png">
 <meta name="twitter:creator" content="@bhanlam">
+<meta name="twitter:image-height" content="1650">
+<meta name="twitter:image-width" content="2750">
 <meta name="twitter:card" content="summary_large_image">
 </head>
 
@@ -240,7 +242,7 @@ ul.task-list li input[type="checkbox"] {
 <h2 class="anchored" data-anchor-id="collaborators">Collaborators</h2>
 <div class="quarto-figure quarto-figure-center">
 <figure class="figure">
-<p><a href="images/coauthormap.png" class="lightbox" data-gallery="quarto-lightbox-gallery-1"><img src="images/coauthormap.png" class="img-fluid figure-img"></a></p>
+<p><a href="../images/coauthormap.png" class="lightbox" data-gallery="quarto-lightbox-gallery-1"><img src="../images/coauthormap.png" class="img-fluid figure-img"></a></p>
 </figure>
 </div>
 
@@ -627,7 +629,7 @@ window.document.addEventListener("DOMContentLoaded", function (event) {
     </div>
   </div>
 </footer>
-<script>var lightboxQuarto = GLightbox({"closeEffect":"zoom","selector":".lightbox","openEffect":"zoom","loop":true,"descPosition":"bottom"});</script>
+<script>var lightboxQuarto = GLightbox({"descPosition":"bottom","selector":".lightbox","openEffect":"zoom","closeEffect":"zoom","loop":true});</script>
 
 
 

diff --git a/index.html b/index.html
@@ -7,7 +7,7 @@
 <meta name="viewport" content="width=device-width, initial-scale=1.0, user-scalable=yes">
 
 
-<title>index</title>
+<title>bhanlam</title>
 <style>
 code{white-space: pre-wrap;}
 span.smallcaps{font-variant: small-caps;}
@@ -71,6 +71,11 @@ ul.task-list li input[type="checkbox"] {
 
 
 <link rel="stylesheet" href="styles.css">
+<meta name="twitter:title" content="">
+<meta name="twitter:description" content="">
+<meta name="twitter:image" content="https://bhanlam.github.io/images/profile.jpg">
+<meta name="twitter:creator" content="@bhanlam">
+<meta name="twitter:card" content="summary_large_image">
 </head>
 
 <body class="nav-fixed fullcontent">
@@ -579,7 +584,7 @@ window.document.addEventListener("DOMContentLoaded", function (event) {
     </div>
   </div>
 </footer>
-<script>var lightboxQuarto = GLightbox({"descPosition":"bottom","selector":".lightbox","loop":true,"openEffect":"zoom","closeEffect":"zoom"});</script>
+<script>var lightboxQuarto = GLightbox({"selector":".lightbox","descPosition":"bottom","closeEffect":"zoom","loop":true,"openEffect":"zoom"});</script>
 
 
 

diff --git a/about.html b/about.html
@@ -7,7 +7,7 @@
 <meta name="viewport" content="width=device-width, initial-scale=1.0, user-scalable=yes">
 
 
-<title>About</title>
+<title>bhanlam - About</title>
 <style>
 code{white-space: pre-wrap;}
 span.smallcaps{font-variant: small-caps;}
@@ -101,7 +101,7 @@ pre > code.sourceCode > span > a:first-child::before { text-decoration: underlin
 
 
 <link rel="stylesheet" href="styles.css">
-<meta name="twitter:title" content="About">
+<meta name="twitter:title" content="bhanlam - About">
 <meta name="twitter:description" content="">
 <meta name="twitter:creator" content="@bhanlam">
 <meta name="twitter:card" content="summary">
